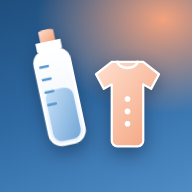
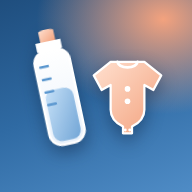
Наш малыш: новый рисунок боди
Claude-Session: https://claude.ai/code/session_01NePfuaPgo2ZVb6hKbYvfwA

diff --git a/malysh/index.html b/malysh/index.html
@@ -491,10 +491,11 @@ ul.plain,.card ul.plain{margin:10px 0 0;padding:0;list-style:none;display:grid;g
     <linearGradient id="gPeach" x1="0" y1="0" x2="1" y2="1"><stop offset="0" stop-color="#FFE0CF"/><stop offset="1" stop-color="#F3A27E"/></linearGradient>
     <linearGradient id="gMilk" x1="0" y1="0" x2="0" y2="1"><stop offset="0" stop-color="#FFFFFF"/><stop offset="1" stop-color="#EAF2FB"/></linearGradient>
   </defs>
-  <symbol id="a-body" viewBox="0 0 160 170">
-    <path d="M52 10h56l28 22-14 26-14-8v100a10 10 0 01-10 10H62a10 10 0 01-10-10V50l-14 8-14-26z" fill="url(#gPeach)" stroke="#fff" stroke-width="4" stroke-linejoin="round"/>
-    <path d="M62 10c4 14 32 14 36 0" fill="none" stroke="#fff" stroke-width="5" stroke-linecap="round"/>
-    <circle cx="80" cy="76" r="5" fill="#fff"/><circle cx="80" cy="98" r="5" fill="#fff"/><circle cx="80" cy="120" r="5" fill="#fff"/>
+  <symbol id="a-body" viewBox="0 0 160 150">
+    <path d="M50 10h60l30 24-14 26-16-9v44c0 14-10 24-22 30v12H72v-12c-12-6-22-16-22-30V51l-16 9-14-26z" fill="url(#gPeach)" stroke="#fff" stroke-width="4" stroke-linejoin="round"/>
+    <path d="M62 10c4 13 32 13 36 0" fill="none" stroke="#fff" stroke-width="5" stroke-linecap="round"/>
+    <circle cx="80" cy="58" r="5" fill="#fff"/><circle cx="80" cy="80" r="5" fill="#fff"/>
+    <circle cx="76" cy="131" r="2.6" fill="#fff"/><circle cx="84" cy="131" r="2.6" fill="#fff"/>
   </symbol>
   <symbol id="a-bottle" viewBox="0 0 100 200">
     <path d="M38 6c0-4 24-4 24 0v16H38z" fill="url(#gPeach)"/>
@@ -528,7 +529,7 @@ ul.plain,.card ul.plain{margin:10px 0 0;padding:0;list-style:none;display:grid;g
     </div>
     <div class="hero-art" aria-hidden="true">
       <svg class="flo a" viewBox="0 0 100 200"><use href="#a-bottle"/></svg>
-      <svg class="flo b" viewBox="0 0 160 170"><use href="#a-body"/></svg>
+      <svg class="flo b" viewBox="0 0 160 150"><use href="#a-body"/></svg>
       <svg class="flo c" viewBox="0 0 140 140"><use href="#a-moon"/></svg>
       <svg class="flo d" viewBox="0 0 160 200"><use href="#a-pacif"/></svg>
     </div>

diff --git a/malysh/sw.js b/malysh/sw.js
@@ -1,5 +1,5 @@
 /* Офлайн-кэш памятки. Версия меняется автоматически при каждом обновлении index.html. */
-const VERSION = "malysh-7fdba1409d";
+const VERSION = "malysh-8ca98e6d8d";
 const CORE = ["./", "./index.html", "./manifest.webmanifest", "./icon-192.png", "./icon-512.png", "./apple-touch-icon.png", "./favicon-32.png"];
 
 self.addEventListener("install", (e) => {
